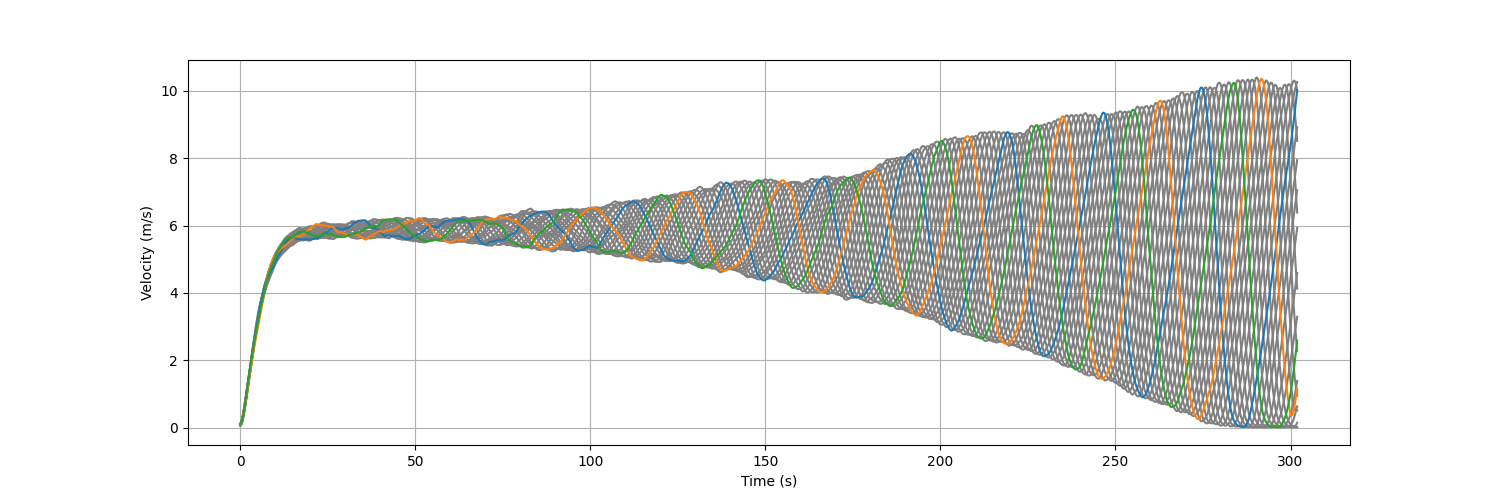
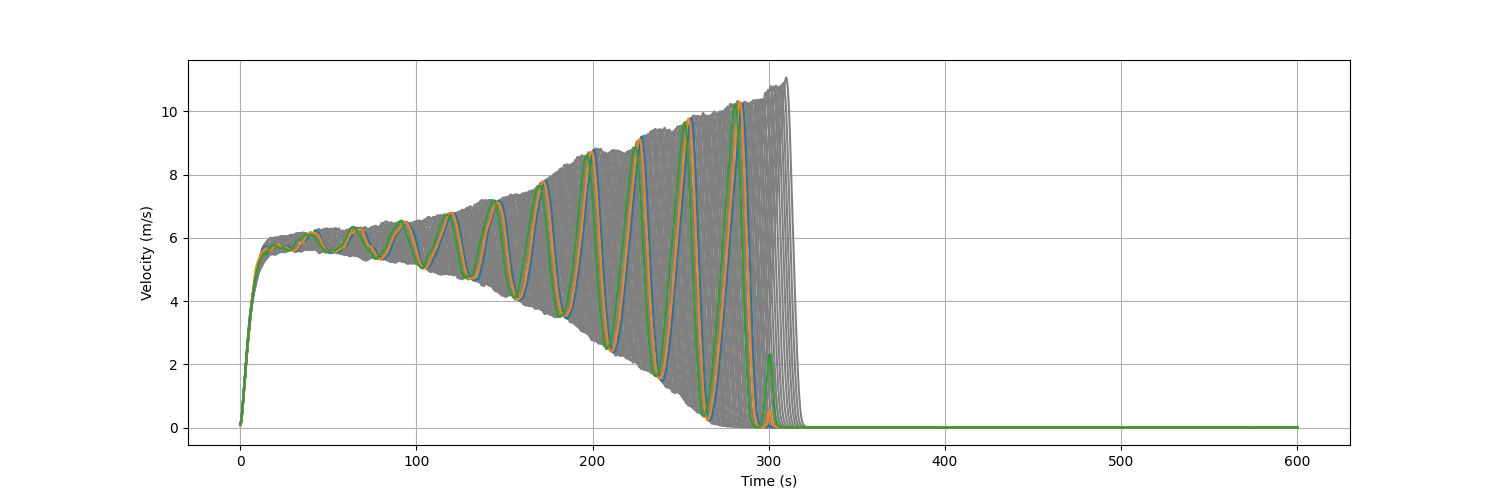
reward change

diff --git a/main.py b/main.py
@@ -31,7 +31,7 @@ def main():
 
     elif args.type == "multiagent_qmix_eval":
         scripts.multiagent_train_ppo.evaluate_qmix(
-            "/home/vamsi/Documents/GitHub/RingRoad-RL/Models/VDN/QMIX/QMIX_grouped_ringroad_25680_00000_0_2022-07-16_11-41-35/checkpoint_000080/checkpoint-80", mixer)
+            "/home/vamsi/Documents/GitHub/RingRoad-RL/Models/VDN/QMIX/QMIX_grouped_ringroad_33712_00000_0_2022-07-16_22-26-13/checkpoint_000103/checkpoint-103", mixer)
     elif args.type == "eval_idm":
         scripts.evaluate_idm.evaluate()
 

diff --git a/Ring_Road/envs/multiagent_ringroad.py b/Ring_Road/envs/multiagent_ringroad.py
@@ -179,7 +179,7 @@ class MultiAgentRingRoad(MultiAgentEnv):
         rew = {ag_id: reward for ag_id in self.agents.keys()}
         for ag_id, agent in self.agents.items():
             if agent.v == 0:
-                rew = {ag_id: reward for ag_id in self.agents.keys()}
+                rew = {ag_id: -5 for ag_id in self.agents.keys()}
                 break
 
         return rew

diff --git a/Ring_Road/vehicle/state.py b/Ring_Road/vehicle/state.py
@@ -8,7 +8,7 @@ from Ring_Road.constants import RADIUS, CAR_LENGTH, RADIUS, AGENT_MAX_VELOCITY, 
 class StateExtractor:
     def __init__(self, env):
         self.env = env
-        self.delay = 0
+        self.delay = 0.5
 
     def gap_front(self, veh):
         if veh.front_vehicle.central_angle - veh.central_angle < 0:
